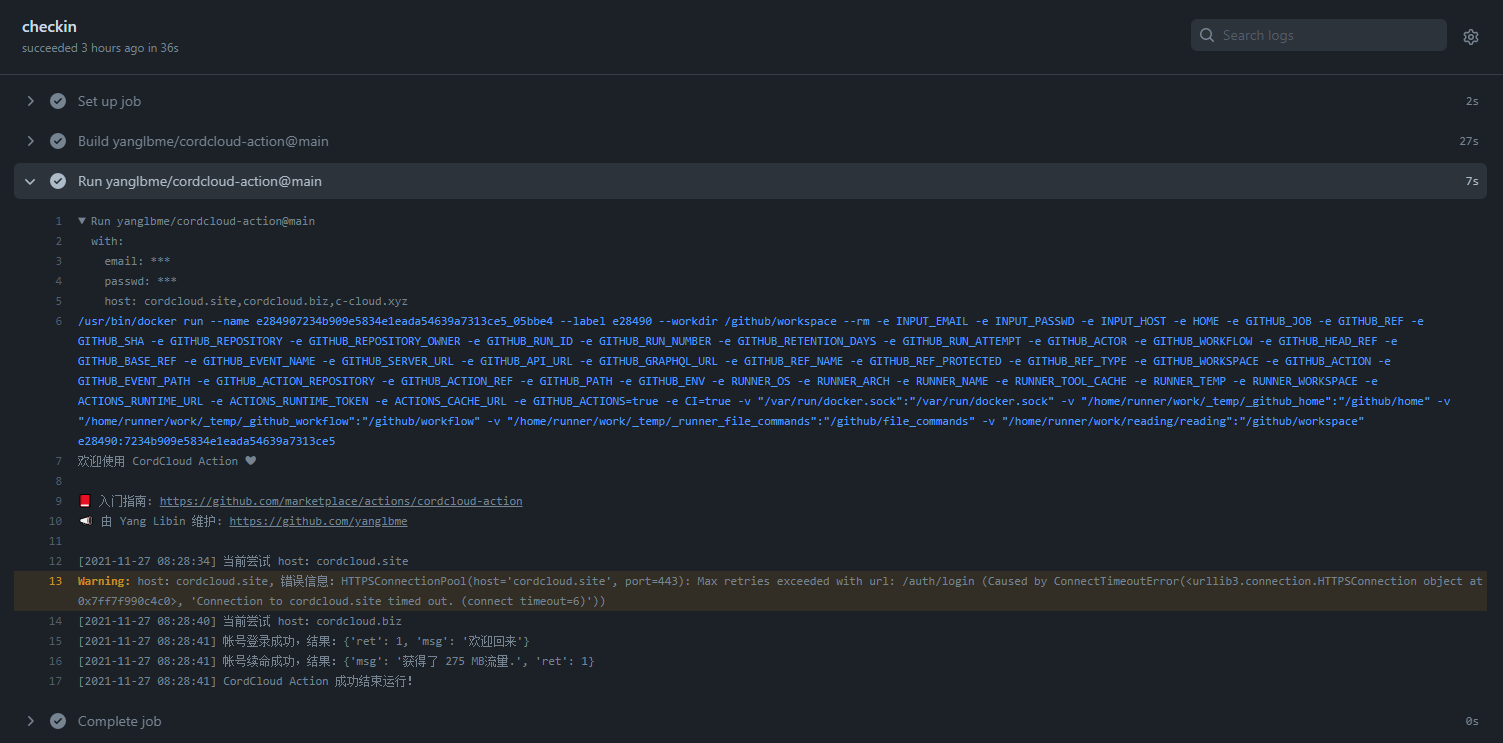
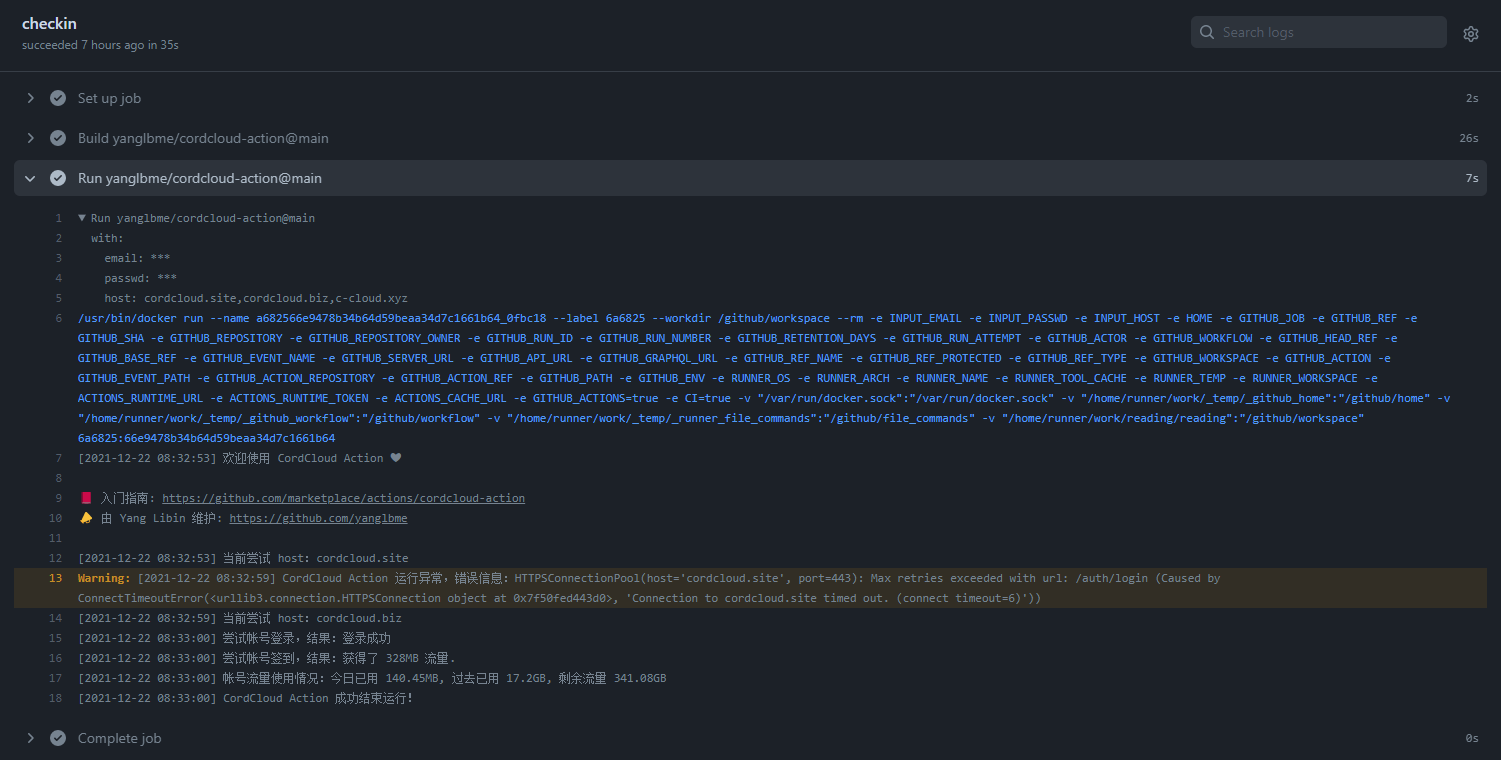
docs: update readme guideline

diff --git a/README.md b/README.md
@@ -79,17 +79,18 @@ Run yanglbme/cordcloud-action@main
   with:
     email: ***
     passwd: ***
-    host: cordcloud.us,cordcloud.biz,c-cloud.xyz
-/usr/bin/docker run --name e284907234b909e5834e1eada54639a7313ce5_05bbe4 --label e28490 --workdir /github/workspace --rm -e INPUT_EMAIL -e INPUT_PASSWD -e INPUT_HOST -e HOME -e GITHUB_JOB -e GITHUB_REF -e GITHUB_SHA -e GITHUB_REPOSITORY -e GITHUB_REPOSITORY_OWNER -e GITHUB_RUN_ID -e GITHUB_RUN_NUMBER -e GITHUB_RETENTION_DAYS -e GITHUB_RUN_ATTEMPT -e GITHUB_ACTOR -e GITHUB_WORKFLOW -e GITHUB_HEAD_REF -e GITHUB_BASE_REF -e GITHUB_EVENT_NAME -e GITHUB_SERVER_URL -e GITHUB_API_URL -e GITHUB_GRAPHQL_URL -e GITHUB_REF_NAME -e GITHUB_REF_PROTECTED -e GITHUB_REF_TYPE -e GITHUB_WORKSPACE -e GITHUB_ACTION -e GITHUB_EVENT_PATH -e GITHUB_ACTION_REPOSITORY -e GITHUB_ACTION_REF -e GITHUB_PATH -e GITHUB_ENV -e RUNNER_OS -e RUNNER_ARCH -e RUNNER_NAME -e RUNNER_TOOL_CACHE -e RUNNER_TEMP -e RUNNER_WORKSPACE -e ACTIONS_RUNTIME_URL -e ACTIONS_RUNTIME_TOKEN -e ACTIONS_CACHE_URL -e GITHUB_ACTIONS=true -e CI=true -v "/var/run/docker.sock":"/var/run/docker.sock" -v "/home/runner/work/_temp/_github_home":"/github/home" -v "/home/runner/work/_temp/_github_workflow":"/github/workflow" -v "/home/runner/work/_temp/_runner_file_commands":"/github/file_commands" -v "/home/runner/work/reading/reading":"/github/workspace" e28490:7234b909e5834e1eada54639a7313ce5
-欢迎使用 CordCloud Action ❤
+    host: cordcloud.site,cordcloud.biz,c-cloud.xyz
+/usr/bin/docker run --name a682566e9478b34b64d59beaa34d7c1661b64_0fbc18 --label 6a6825 --workdir /github/workspace --rm -e INPUT_EMAIL -e INPUT_PASSWD -e INPUT_HOST -e HOME -e GITHUB_JOB -e GITHUB_REF -e GITHUB_SHA -e GITHUB_REPOSITORY -e GITHUB_REPOSITORY_OWNER -e GITHUB_RUN_ID -e GITHUB_RUN_NUMBER -e GITHUB_RETENTION_DAYS -e GITHUB_RUN_ATTEMPT -e GITHUB_ACTOR -e GITHUB_WORKFLOW -e GITHUB_HEAD_REF -e GITHUB_BASE_REF -e GITHUB_EVENT_NAME -e GITHUB_SERVER_URL -e GITHUB_API_URL -e GITHUB_GRAPHQL_URL -e GITHUB_REF_NAME -e GITHUB_REF_PROTECTED -e GITHUB_REF_TYPE -e GITHUB_WORKSPACE -e GITHUB_ACTION -e GITHUB_EVENT_PATH -e GITHUB_ACTION_REPOSITORY -e GITHUB_ACTION_REF -e GITHUB_PATH -e GITHUB_ENV -e RUNNER_OS -e RUNNER_ARCH -e RUNNER_NAME -e RUNNER_TOOL_CACHE -e RUNNER_TEMP -e RUNNER_WORKSPACE -e ACTIONS_RUNTIME_URL -e ACTIONS_RUNTIME_TOKEN -e ACTIONS_CACHE_URL -e GITHUB_ACTIONS=true -e CI=true -v "/var/run/docker.sock":"/var/run/docker.sock" -v "/home/runner/work/_temp/_github_home":"/github/home" -v "/home/runner/work/_temp/_github_workflow":"/github/workflow" -v "/home/runner/work/_temp/_runner_file_commands":"/github/file_commands" -v "/home/runner/work/reading/reading":"/github/workspace" 6a6825:66e9478b34b64d59beaa34d7c1661b64
+[2021-12-22 08:32:53] 欢迎使用 CordCloud Action ❤
 
 📕 入门指南: https://github.com/marketplace/actions/cordcloud-action
 📣 由 Yang Libin 维护: https://github.com/yanglbme
 
-[2021-11-27 08:28:34] 当前尝试 host：cordcloud.us
-Warning: host：cordcloud.us, 错误信息：HTTPSConnectionPool(host='cordcloud.us', port=443): Max retries exceeded with url: /auth/login (Caused by ConnectTimeoutError(<urllib3.connection.HTTPSConnection object at 0x7ff7f990c4c0>, 'Connection to cordcloud.us timed out. (connect timeout=6)'))
-[2021-11-27 08:28:40] 当前尝试 host：cordcloud.biz
-[2021-11-27 08:28:41] 帐号登录成功，结果：{'ret': 1, 'msg': '欢迎回来'}
-[2021-11-27 08:28:41] 帐号续命成功，结果：{'msg': '获得了 275 MB流量.', 'ret': 1}
-[2021-11-27 08:28:41] CordCloud Action 成功结束运行！
+[2021-12-22 08:32:53] 当前尝试 host：cordcloud.site
+Warning: [2021-12-22 08:32:59] CordCloud Action 运行异常，错误信息：HTTPSConnectionPool(host='cordcloud.site', port=443): Max retries exceeded with url: /auth/login (Caused by ConnectTimeoutError(<urllib3.connection.HTTPSConnection object at 0x7f50fed443d0>, 'Connection to cordcloud.site timed out. (connect timeout=6)'))
+[2021-12-22 08:32:59] 当前尝试 host：cordcloud.biz
+[2021-12-22 08:33:00] 尝试帐号登录，结果：登录成功
+[2021-12-22 08:33:00] 尝试帐号签到，结果：获得了 328MB 流量.
+[2021-12-22 08:33:00] 帐号流量使用情况：今日已用 140.45MB, 过去已用 17.2GB, 剩余流量 341.08GB
+[2021-12-22 08:33:00] CordCloud Action 成功结束运行！
 ```
